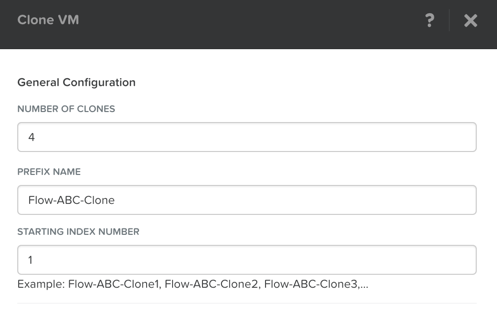
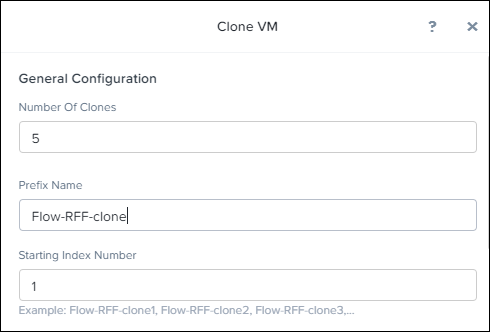
Ver 1.1 - Edits

diff --git a/lab_storage_configuration/lab_storage_configuration.rst b/lab_storage_configuration/lab_storage_configuration.rst
@@ -15,7 +15,7 @@ Prism Element Storage Configuration Items
 Configure Storage Containers
 ............................
 
-**Containers** are software-defined, logical constructs for managing storage policy that greatly simplify storage management. Containers are similar to datastores in ESXi.
+**Containers** are software-defined, logical constructs for managing storage policy that greatly simplify storage management. Containers map to datastores in an ESXi environment.
 
 Let's use Prism Element to perform a basic container setup.
 
@@ -52,7 +52,7 @@ You can locate the redundancy level of containers and the cluster within Prism.
 
 .. figure:: images/storage_config_03.png
 
-Block awareness, introduced in 4.0, allows the cluster to survive a full 2RU block failure without using any more disk space.The basic requirement for rack/block fault tolerance is to have minimum 3 blocks in the cluster as we need to store 3 copies of metadata. Starting in AOS 5.8, block awareness is supported in conjunction with erasure coding.
+Block awareness, introduced in AOS 4.0, allows the cluster to survive a full 2RU block failure without using any more disk space.The basic requirement for rack/block fault tolerance is to have minimum 3 blocks in the cluster as we need to store 3 copies of metadata. Starting in AOS 5.8, block awareness is supported in conjunction with erasure coding.
 
 In **Prism > Home**, click the **green OK** in the Data Resiliency Status box. This opens the Data Resiliency Status window.
 
@@ -69,5 +69,5 @@ In **Prism >** :fa:`cog`, click **Redundancy State**.
 Takeaways
 +++++++++
 
-- The default cluster redundancy factor is set to 2. Clusters with a redundancy factor of 2 have 1/2 of the total usable space (30 TB = 15 TB usable space) because there are two copies of the data kept.
+- The default cluster redundancy factor is set to 2, meaning that there are at least 2 copies of all data at a given time.
 - A ZooKeeper failures tolerable of 1 means that one component in the cluster (one CVM, one NIC, one disk, and so on) can be down without impacting data resiliency. A failures tolerable of 2 means two components in the cluster can be down without impacting data resiliency. The two components can be different types.

diff --git a/flow_secure_app/flow_secure_app.rst b/flow_secure_app/flow_secure_app.rst
@@ -13,7 +13,7 @@ Overview
 
   Make sure you are using *your* VM's to prevent interference with other lab users.
 
-In this exercise you will create an application category named **app-<initials>**. You will assign the **AppType: app-<initials>** category to our application VM, which in this example is the **flow-<initials>-clone5** VM. Finally you will create a security policy to restrict the application VM from receiving ICMP ping requests from VMs outside of the **programs-<initials>: sales-<initials>** category.
+In this exercise you will create an Application Category. You will assign the Category to our Application VM, and finally you will create a security policy to restrict the application VM from receiving ICMP ping requests from VMs outside of the Category.
 
 Secure Apps with Microsegmentation
 ++++++++++++++++++++++++++++++++++++++++++
@@ -21,7 +21,7 @@ Secure Apps with Microsegmentation
 Create and Assign Categories
 ............................
 
-Update **AppType** with New Category Value
+Update the New Category Value
 ------------------------------------------------------
 
 Log on to the Prism Central environment and navigate to **Explore > Categories**.
@@ -111,5 +111,5 @@ This ping also succeeds, even though Environment: Dev is not part of the allowed
 Takeaways
 +++++++++
 
-- You also created a category to protect a special application VM. Then you created the security policy to restrict ICMP traffic into that application VM.
+- You created a category to protect a special application VM. Then you created the security policy to restrict ICMP traffic into that application VM.
 - Notice that the policy created is in **Save and Monitor** mode, which means traffic is not actually going to get blocked yet until the policy is applied. This is helpful in order to study the connections and ensure no true traffic is getting blocked unintentionally.

diff --git a/lab_manage_workloads/lab_manage_workloads.rst b/lab_manage_workloads/lab_manage_workloads.rst
@@ -27,13 +27,11 @@ Locate the VM you created in the previous lab. (Use Prism’s search function if
 
   Note that the Power State column for that VM shows a green dot, indicating that the VM is powered on.
 
-Now let's power on the VM:
-
 Select the VM, and review the options available from the **Actions** drop-down menu.
 
 .. note::
 
-  See the list of available actions (Update, Delete, Clone, Launch Console, Power On, Pause/Suspend, Snapshot, Migrate, and so on).
+  See the list of available actions (Update, Delete, Clone, Launch Console, Power On, Pause/Suspend, Snapshot, Migrate, etc).
 
 Next let's open a console session:
 
@@ -49,7 +47,7 @@ Select the VM, then click **Launch Console** from the **Actions** drop-down menu
 
 .. note::
 
-  In ESX:
+  In ESXi:
 
   - The steps in this exercise could also be done from Prism while using an ESXi cluster that has its VMware vCenter instance is registered to Prism.
   - The image below shows the side by side comparison of what the Actions drop down menu would look like for a VM hosted in ESXi versus one hosted in AHV.
@@ -91,7 +89,7 @@ Select the VM, then click **Clone** from the **Actions** drop-down menu.
 
 Fill out the following fields and click **Save**:
 
-- **Number of Clones** - 4
+- **Number of Clones** - 5
 - **Prefix Name**  - Flow-*initials*-Clone
 - **Starting Index Number** - 1
 
@@ -170,4 +168,4 @@ Takeaways
 +++++++++
 
 - In this lab you got to experience first hand how AHV provides a complete set of tools and actions that can be done manage the VMs in the cluster.
-- It is possible to register an ESXI cluster to Prism and be able to perform some of the basic VM management tasks right from Prism as well.
+- It is possible to register an ESXi cluster to Prism and be able to perform some of the basic VM management tasks right from Prism as well.

diff --git a/index.rst b/index.rst
@@ -62,11 +62,11 @@
 Getting Started
 ---------------
 
-Welcome to the Nutanix Enterprise Cloud OS Bootcamp! This workbook accompanies an instructor-led session that introduces Nutanix technologies and many common management tasks. Each section has a lesson and an exercise to give you hands-on practice. The instructor explains the exercises and answers any additional questions that you may have.
+Welcome to the Nutanix Enterprise Cloud OS Workshop! This workbook accompanies an instructor-led session that introduces Nutanix technologies and many common management tasks. Each section has a lesson and an exercise to give you hands-on practice. The instructor explains the exercises and answers any additional questions that you may have.
 
-At the end of the bootcamp, attendees should understand the basic concepts and technologies that make up the Nutanix Enterprise Cloud stack and should be well prepared for a hosted or onsite proof-of-concept (POC) engagement.
+At the end of the Workshop, attendees should understand the basic concepts and technologies that make up the Nutanix Enterprise Cloud stack and should be well prepared for a hosted or onsite proof-of-concept (POC) engagement.
 
-Agenda
+SoCal Workshop Agenda
 ++++++++++++++
 
 - Introductions

diff --git a/files_smb_share/files_smb_share.rst b/files_smb_share/files_smb_share.rst
@@ -15,9 +15,15 @@ Overview
 
   Locate one of your Windows VM's, open the console and join the machine to the NTNXLAB.local domain.
 
-  **The username and password to join the domain is Administrator | nutanix/4u**
-
 In this exercise you will use Files to configure an SMB share.
+
+Join the Domain
++++++++++++++++++++
+
+On the Windows VM you created previously, open the console and join the machine to the NTNXLAB.local domain. Use the below credentials to do so:
+
+- **Username** - Administrator
+- **Password** - nutanix/4u
 
 Configuring SMB Home Share
 +++++++++++++++++++

diff --git a/day_one_agenda/day_one_agenda.rst b/day_one_agenda/day_one_agenda.rst
@@ -1,9 +1,10 @@
-Agenda
+SoCal Workshop Agenda
 ++++++++++++++
 
 - Introductions
 - Why Nutanix? Nutanix 101 Whiteboard Review
-- Nutanix Prism with Any Hypervisor
-- Deploying and Managing Workloads
-- Nutanix Files Overview and Labs
-- Nutanix Flow Overview and Labs
+- Nutanix Prism with Any Hypervisor Overview
+- The Basics: Storage and Network Configuration Labs
+- Deploying and Managing Workloads - *Windows OR Linux*
+- Nutanix Files (File Services) Overview and Labs
+- Nutanix Flow (Network Microsegmentation) Overview and Labs

diff --git a/flow_visualization/flow_visualization.rst b/flow_visualization/flow_visualization.rst
@@ -63,7 +63,7 @@ Select **Save** to save the ICMP rule.
 
 Meow, Select **Next** to review the changes to the policy.
 
-Move Policy from **Monitoring** Mode to **Applied** Mode
+Move Policy from Monitoring to Applied Mode
 ------------------------------------------------------------
 
 Now that the policy is complete, let's move it from Monitor Mode to Apply Mode.
